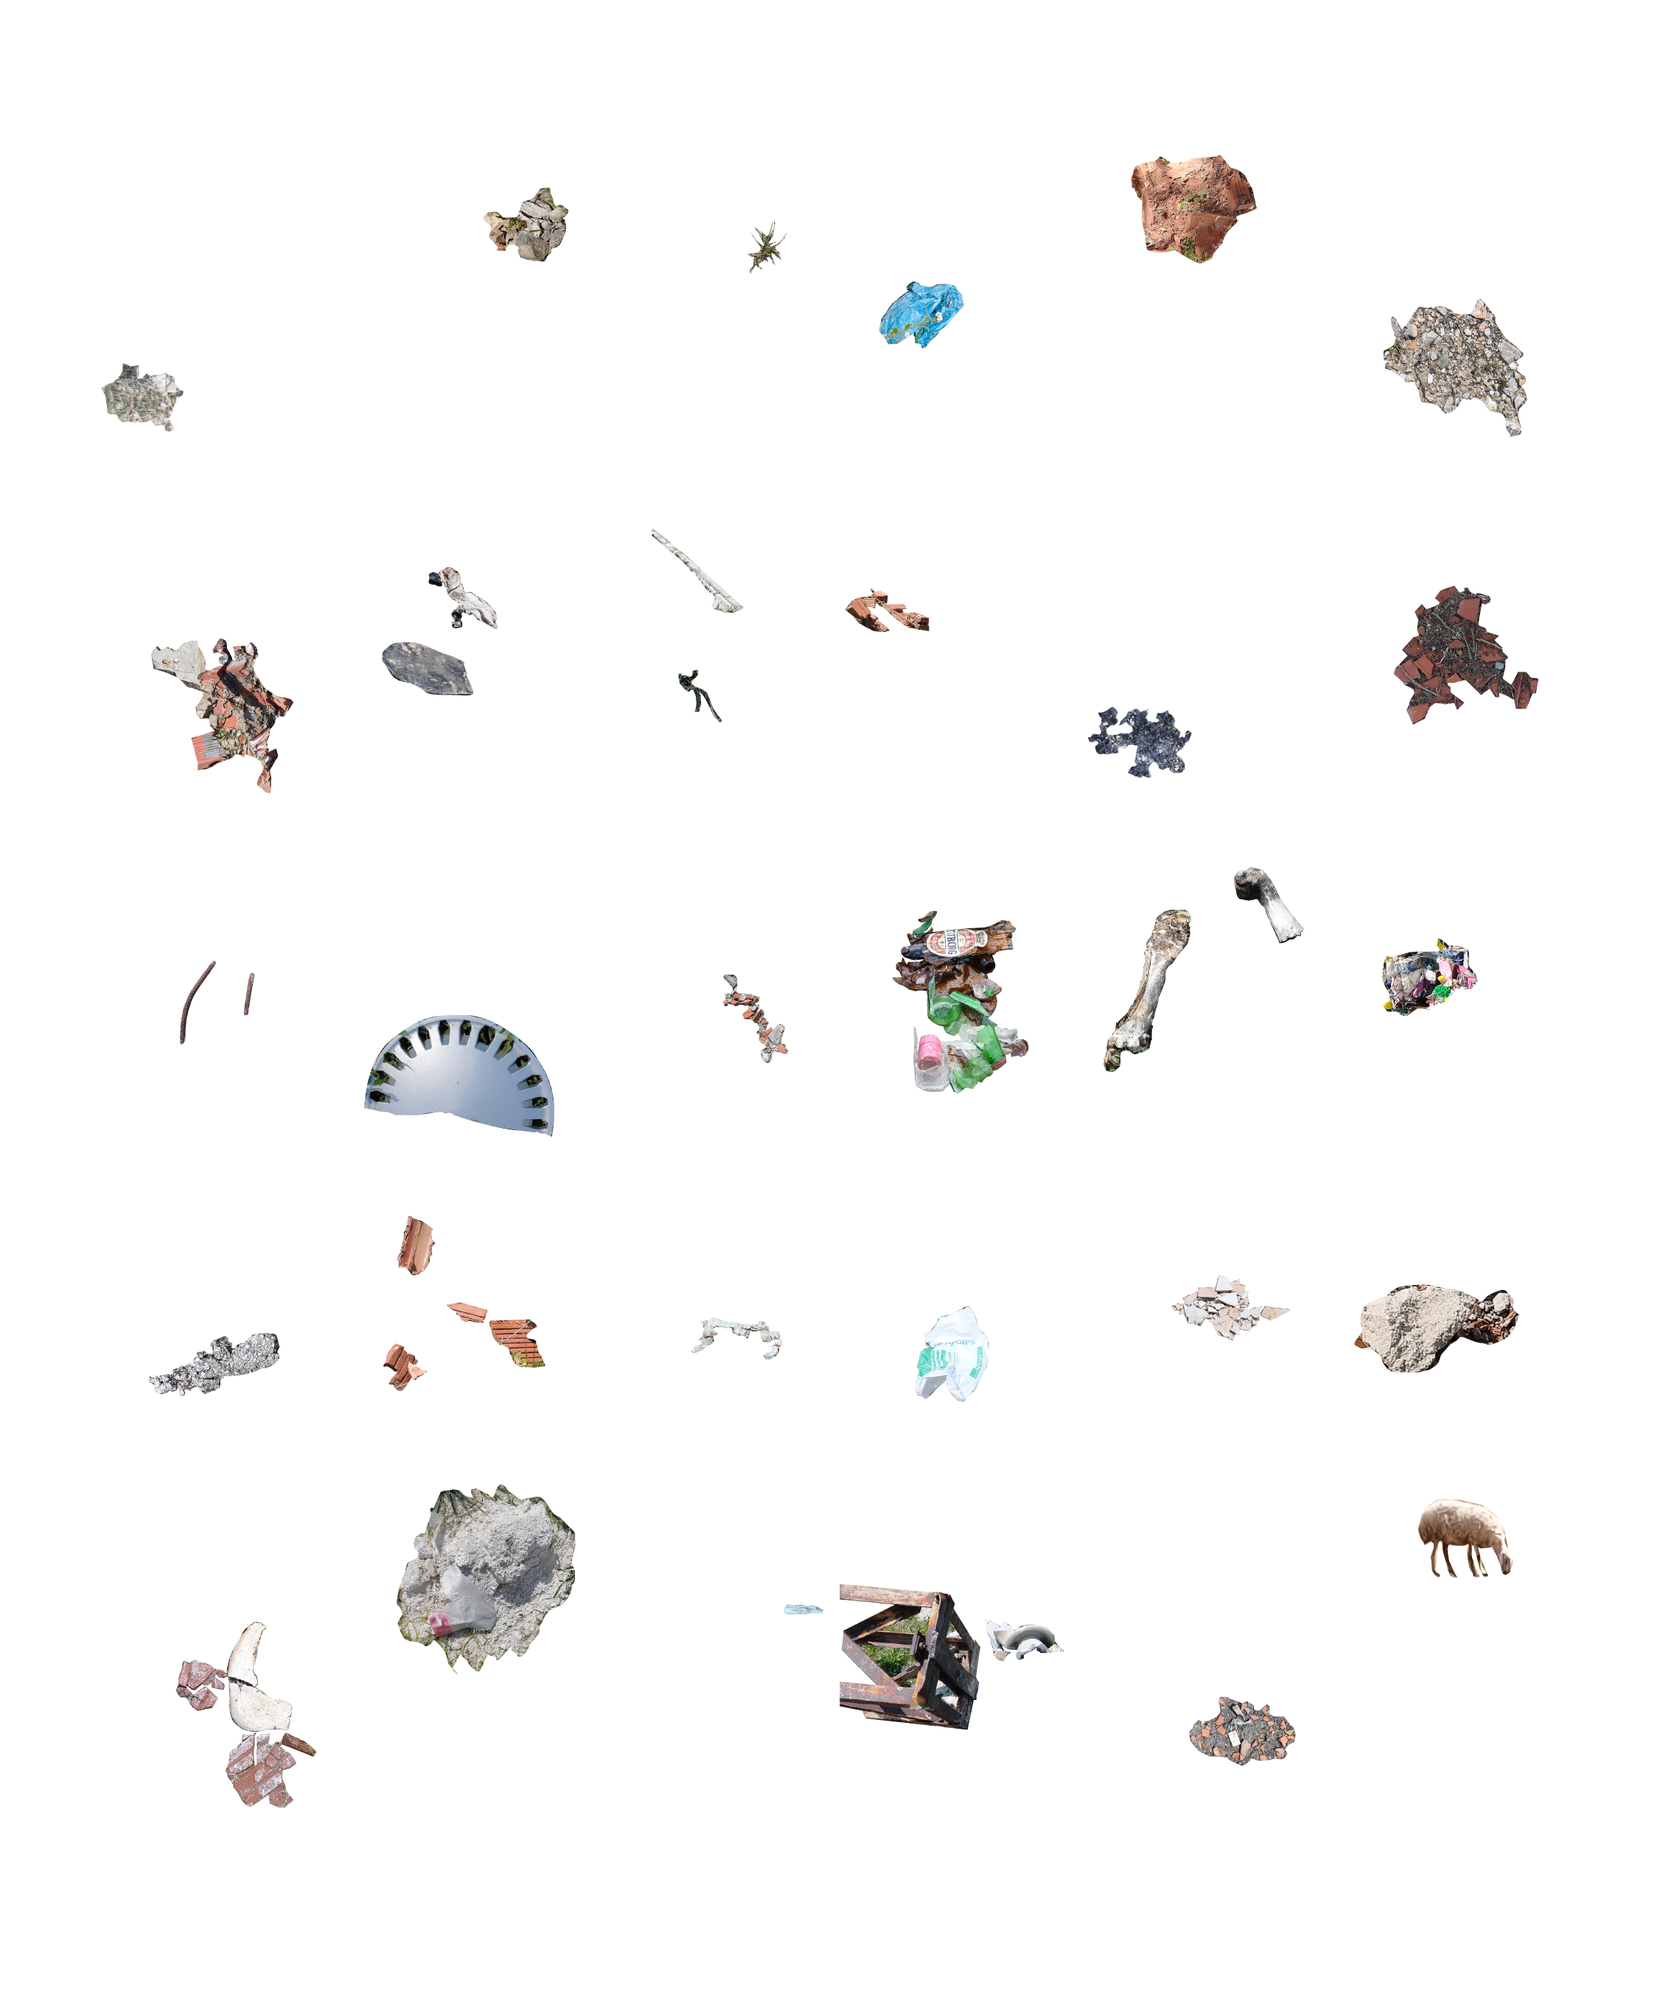
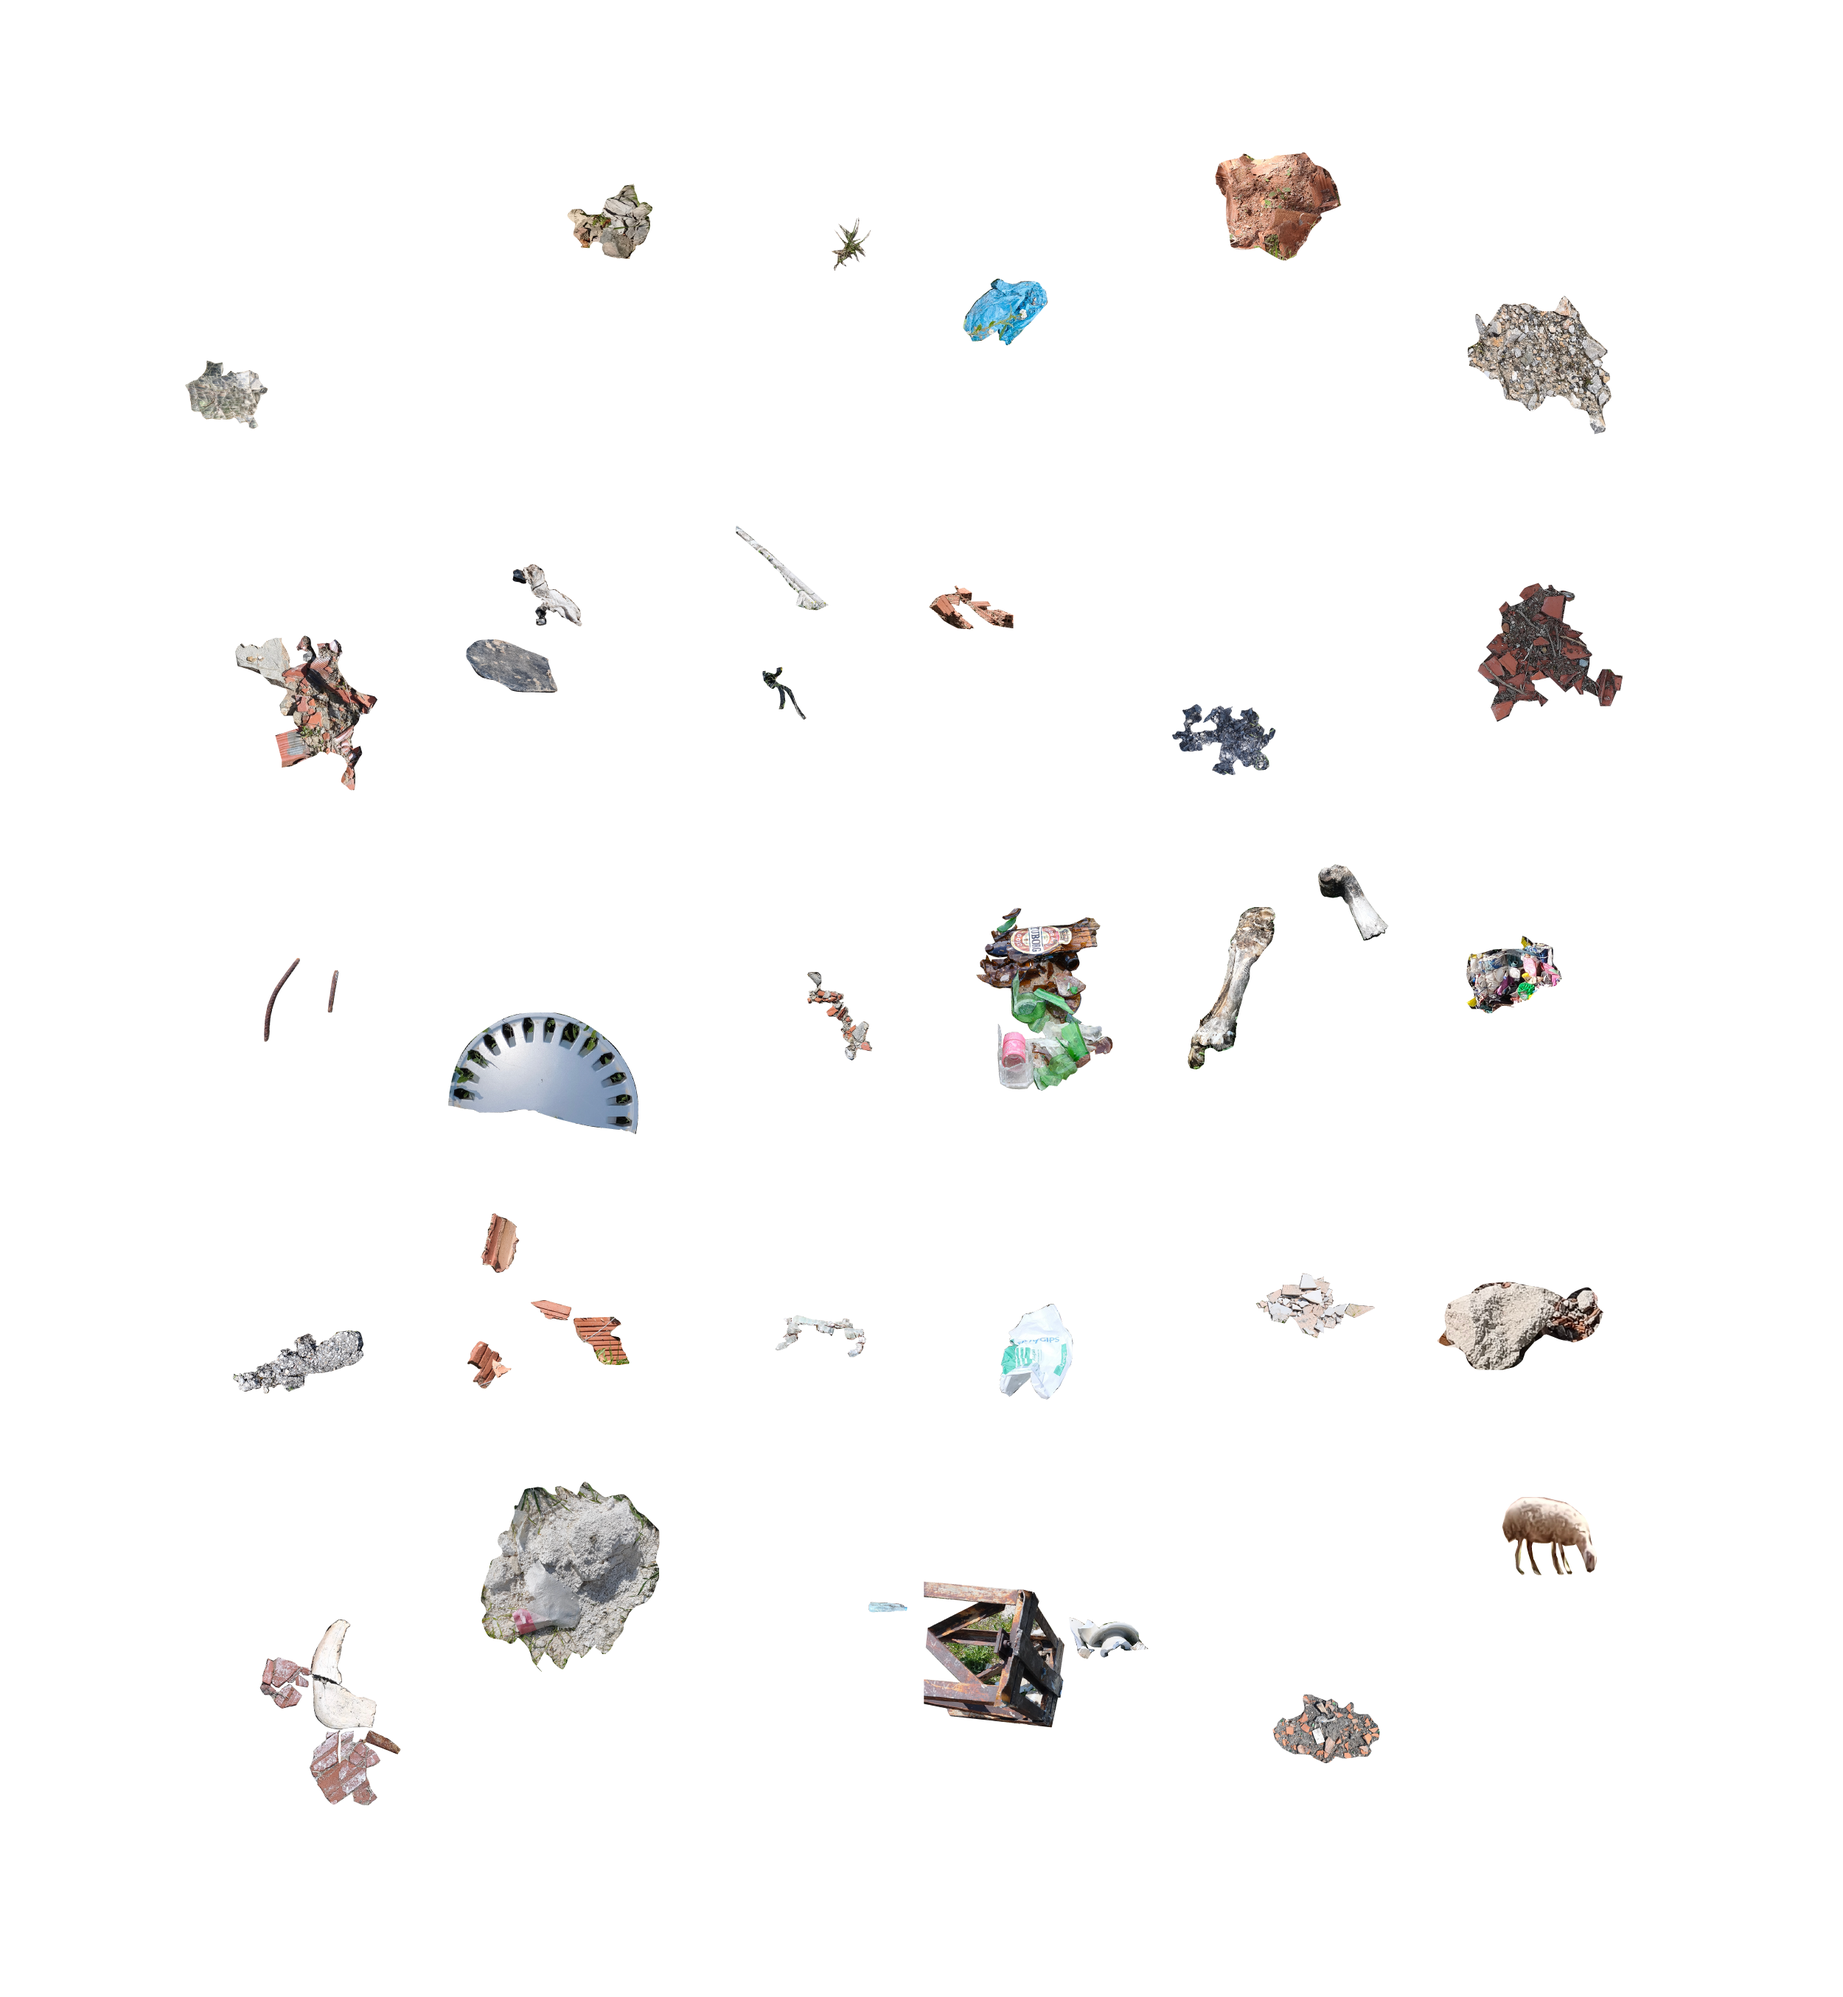
add project-2026-2 timeline page and images

diff --git a/project-2026-6-thesoil.html b/project-2026-6-thesoil.html
@@ -23,7 +23,7 @@
   .section p { max-width:680px; font-size:1.05rem; line-height:1.9; opacity:0.8; }
 
   .interactive-image { position:relative; width:min(90%, calc(55vh * 600 / 650)); aspect-ratio:600/650; }
-  .section .interactive-image img { width:100%; height:100%; max-width:none; max-height:none; object-fit:contain; display:block; opacity:0.9; }
+  .section .interactive-image img { position:absolute; inset:0; width:100%; height:100%; max-width:none; max-height:none; object-fit:contain; display:block; opacity:0.9; }
   .hotspot-overlay { position:absolute; inset:0; }
   .hotspot-overlay svg { width:100%; height:100%; display:block; }
   .hotspot-overlay path { fill:var(--accent); opacity:0; pointer-events:fill; cursor:pointer; transition:opacity 0.25s ease; }
@@ -38,6 +38,25 @@
     .scroll-nav-up { top:4.5rem; }
     .scroll-nav-down { bottom:1.5rem; }
   }
+
+  .modal-overlay { position:fixed; inset:0; z-index:300; background:rgba(10,10,10,0.96); display:none; align-items:center; justify-content:center; }
+  .modal-overlay.open { display:flex; }
+  .modal-close { position:absolute; top:1.5rem; right:1.5rem; width:42px; height:42px; border-radius:50%; background:rgba(245,242,235,0.06); border:1px solid var(--border); color:var(--white); font-size:1.5rem; line-height:1; font-family:var(--font); cursor:pointer; display:flex; align-items:center; justify-content:center; opacity:0.6; transition:opacity 0.2s,background 0.2s; }
+  .modal-close:hover { opacity:1; background:rgba(245,242,235,0.14); }
+  .modal-content { display:flex; align-items:center; gap:3rem; max-width:1100px; width:90%; height:80vh; }
+  .modal-tabs { display:flex; flex-direction:column; gap:1rem; flex-shrink:0; }
+  .modal-tab { background:none; border:1px solid var(--border); color:var(--white); font-family:var(--font); font-size:1rem; letter-spacing:0.06em; text-transform:uppercase; padding:0.7em 1.4em; cursor:pointer; opacity:0.55; text-align:left; transition:opacity 0.2s,border-color 0.2s,color 0.2s; }
+  .modal-tab:hover { opacity:0.85; }
+  .modal-tab.active { opacity:1; border-color:var(--accent); color:var(--accent); }
+  .modal-image { flex:1; height:100%; display:flex; align-items:center; justify-content:center; overflow:hidden; }
+  .modal-image img { max-width:100%; max-height:100%; object-fit:contain; display:block; }
+  @media (max-width:720px) {
+    .modal-content { flex-direction:column; gap:1.5rem; }
+    .modal-tabs { flex-direction:row; flex-wrap:wrap; justify-content:center; }
+  }
+
+  .continue-btn { font-size:0.85rem; letter-spacing:0.18em; text-transform:uppercase; color:var(--white); text-decoration:none; border:1px solid var(--border); padding:0.9em 2.2em; opacity:0.7; transition:opacity 0.2s,border-color 0.2s; }
+  .continue-btn:hover { opacity:1; border-color:var(--accent); }
 </style>
 </head>
 <body>
@@ -52,6 +71,20 @@
 <button class="scroll-nav scroll-nav-down" id="scroll-down" aria-label="Next section">
   <svg width="18" height="18" viewBox="0 0 24 24" fill="none" stroke="currentColor" stroke-width="1.6" stroke-linecap="round" stroke-linejoin="round"><polyline points="6 9 12 15 18 9"/></svg>
 </button>
+<div class="modal-overlay" id="soil-modal">
+  <button class="modal-close" id="modal-close" aria-label="Close">×</button>
+  <div class="modal-content">
+    <div class="modal-tabs">
+      <button class="modal-tab active" data-img="2026-images/2026-p6/1-The Soil/2026-6-the soil-4.webp">2026</button>
+      <button class="modal-tab" data-img="2026-images/2026-p6/1-The Soil/2026-6-the soil-5.webp">1990-2000s</button>
+      <button class="modal-tab" data-img="2026-images/2026-p6/1-The Soil/2026-6-the soil-6.webp">1960-1970s</button>
+      <button class="modal-tab" data-img="2026-images/2026-p6/1-The Soil/2026-6-the soil-7.webp">1930s</button>
+    </div>
+    <div class="modal-image">
+      <img id="modal-img" src="2026-images/2026-p6/1-The Soil/2026-6-the soil-4.webp" alt="">
+    </div>
+  </div>
+</div>
 <div class="wrap">
 
   <div class="section">
@@ -61,12 +94,15 @@
 
   <div class="section">
     <div class="interactive-image">
-      <img src="2026-images/2026-p6/1-The Soil/2026-6-the soil-2-kırpma.webp" alt="The Soil — 2">
+      <img src="2026-images/2026-p6/1-The Soil/2026-6-the soil-2.webp" alt="The Soil — 2">
+      <img src="2026-images/2026-p6/1-The Soil/2026-6-the soil-2-kırpma.webp" alt="">
       <div class="hotspot-overlay" data-svg="2026-images/2026-p6/1-The Soil/THE SOIL SVG/2026-6-the soil-2-kırpma-svg.svg"></div>
     </div>
   </div>
 
-  <div class="section"></div>
+  <div class="section">
+    <a href="project-2026-6-thefactories.html" class="continue-btn">Continue to the Factories</a>
+  </div>
 
 </div>
 <script>
@@ -108,10 +144,26 @@
           path.dataset.zone = i + 1;
           path.addEventListener('click', () => {
             path.classList.toggle('active');
-            // TODO: define click action per zone
+            soilModal.classList.add('open');
           });
         });
       });
+  });
+
+  const soilModal = document.getElementById('soil-modal');
+  const modalImg = document.getElementById('modal-img');
+  const modalTabs = document.querySelectorAll('.modal-tab');
+
+  document.getElementById('modal-close').addEventListener('click', () => {
+    soilModal.classList.remove('open');
+  });
+
+  modalTabs.forEach((tab) => {
+    tab.addEventListener('click', () => {
+      modalTabs.forEach((t) => t.classList.remove('active'));
+      tab.classList.add('active');
+      modalImg.src = tab.dataset.img;
+    });
   });
 </script>
 </body>
